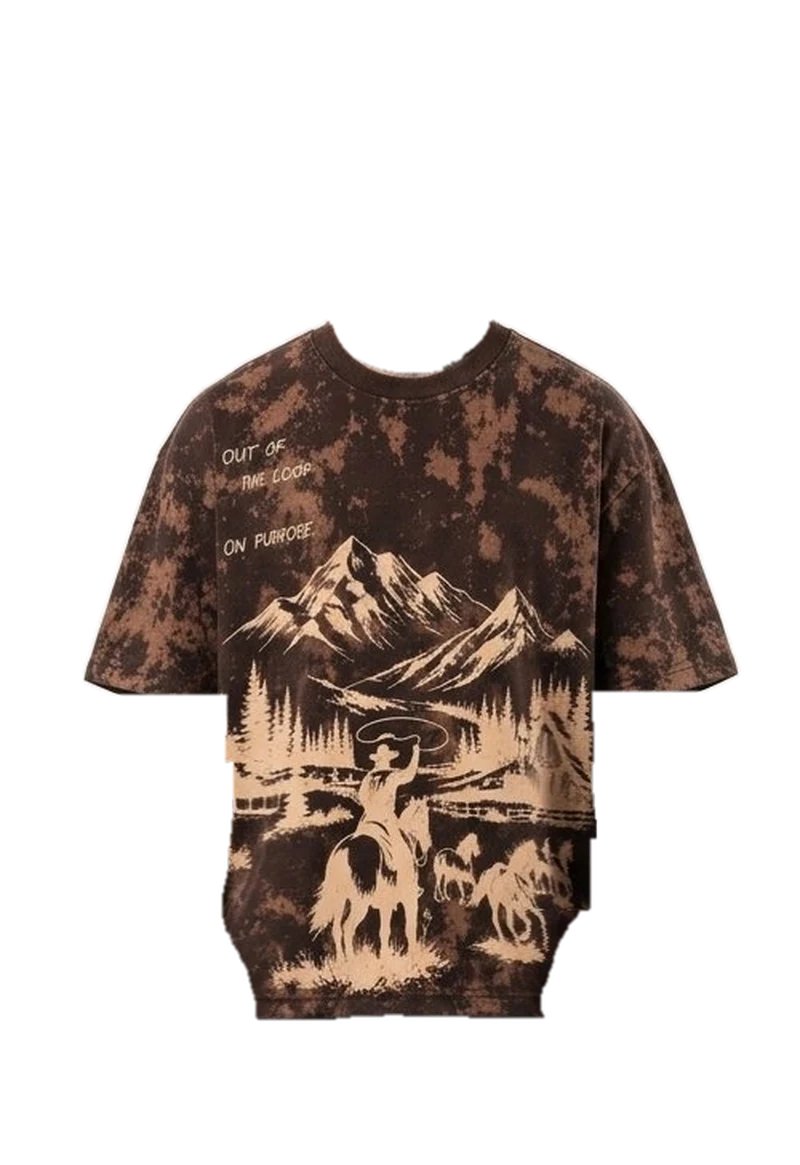
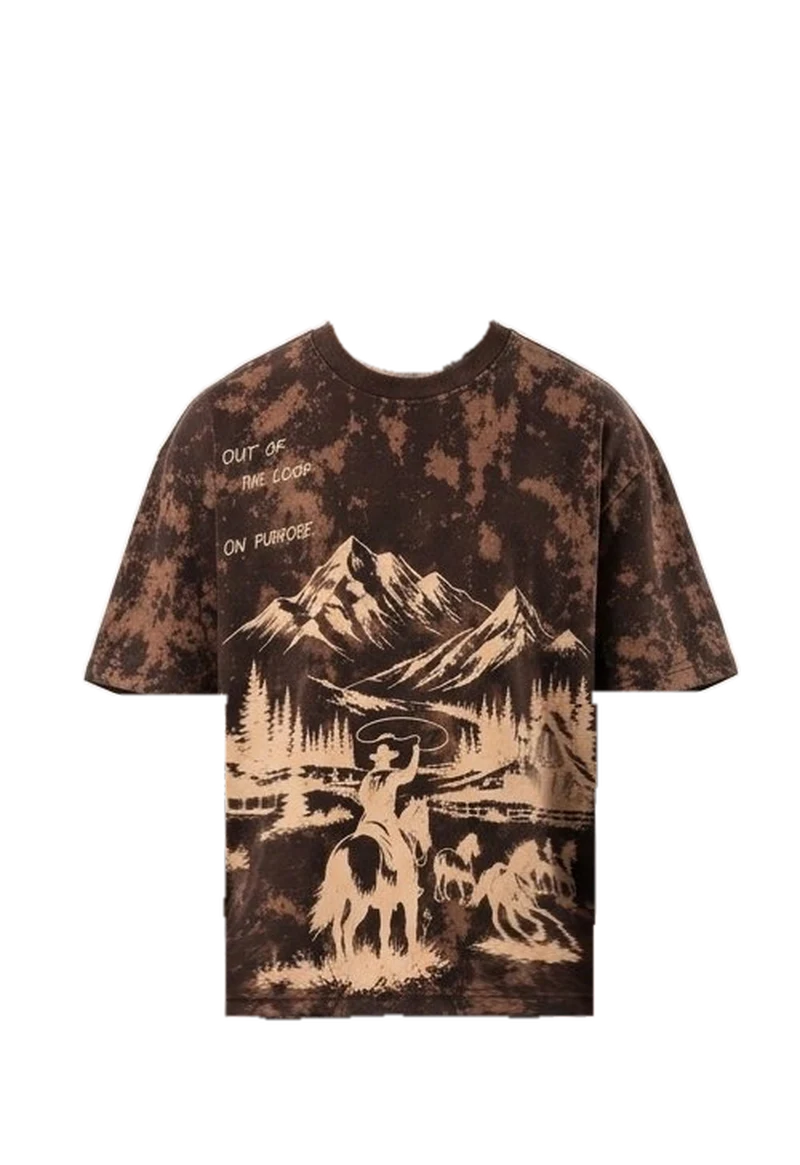
Make each piece a whole shape, with his hands on a front layer
Pieces used to be cut around the model's hands and forearms, which left
bites in their bottom corners and sides when they sat off the model.
Each piece is now completed to a straight side edge down to the hem,
and his forearms and hands are a separate front image drawn over the
pieces. A piece looks whole at the side and still sits behind his
hands when worn. Shopify: adds tryon-front.webp and an optional
front-layer image setting.

Changed region(s): [[0.5938, 0.5871, 0.75, 0.8961], [0.25, 0.5871, 0.4062, 0.8961]]

diff --git a/index.html b/index.html
@@ -10,7 +10,7 @@
   <link href="https://fonts.googleapis.com/css2?family=Boogaloo&display=swap" rel="stylesheet">
 
   <!-- Animation CSS -->
-  <link rel="stylesheet" href="jacket-carousel/jacket-carousel.css?v=3">
+  <link rel="stylesheet" href="jacket-carousel/jacket-carousel.css?v=4">
 
   <style>
     /* Demo-page only — your real site already has its own styles */
@@ -59,25 +59,29 @@
       </div>
 
       <div class="jc__model" role="img" aria-label="Model wearing the selected piece">
-        <img class="jc__body" src="jacket-carousel/assets/body.webp?v=2" alt="">
+        <img class="jc__body" src="jacket-carousel/assets/body.webp?v=3" alt="">
       </div>
 
       <div class="jc__carousel">
         <div class="jc__item">
-          <img class="jc__worn" src="jacket-carousel/assets/worn1.webp?v=4" alt="Piece 01">
+          <img class="jc__worn" src="jacket-carousel/assets/worn1.webp?v=5" alt="Piece 01">
         </div>
         <div class="jc__item">
-          <img class="jc__worn" src="jacket-carousel/assets/worn2.webp?v=4" alt="Piece 02">
+          <img class="jc__worn" src="jacket-carousel/assets/worn2.webp?v=5" alt="Piece 02">
         </div>
         <div class="jc__item">
-          <img class="jc__worn" src="jacket-carousel/assets/worn3.webp?v=4" alt="Piece 03">
+          <img class="jc__worn" src="jacket-carousel/assets/worn3.webp?v=5" alt="Piece 03">
         </div>
         <div class="jc__item">
-          <img class="jc__worn" src="jacket-carousel/assets/worn4.webp?v=4" alt="Piece 04">
+          <img class="jc__worn" src="jacket-carousel/assets/worn4.webp?v=5" alt="Piece 04">
         </div>
         <div class="jc__item">
-          <img class="jc__worn" src="jacket-carousel/assets/worn5.webp?v=4" alt="Piece 05">
+          <img class="jc__worn" src="jacket-carousel/assets/worn5.webp?v=5" alt="Piece 05">
         </div>
+      </div>
+
+      <div class="jc__front">
+        <img src="jacket-carousel/assets/front.webp" alt="">
       </div>
 
       <div class="jc__label">Piece 01</div>

diff --git a/shopify/assets/two-hiigh-tryon.css b/shopify/assets/two-hiigh-tryon.css
@@ -21,6 +21,7 @@
 /* The images carry width/height attributes (for Shopify); keep their natural
    proportions and let max-width/max-height do the sizing */
 .jc__body,
+.jc__front img,
 .jc__item img { width: auto; height: auto; }
 
 /* "Same as the theme" font setting: take the font from the theme instead of Boogaloo */
@@ -104,6 +105,30 @@
 
 .jc__body:first-child { opacity: 1; }
 
+/* Front layer: his forearms and hands once more, drawn OVER the pieces. A piece can
+   then be a complete shape (whole at the side) and still sit behind his hands when
+   he wears it. Same box as the model, so it lines up exactly. */
+.jc__front {
+  position: absolute;
+  left: 50%;
+  top: 50%;
+  transform: translate(-50%, -50%);
+  width: min(45vh, 560px);
+  height: 88vh;
+  z-index: 15;
+  pointer-events: none;
+}
+
+.jc__front img {
+  position: absolute;
+  inset: 0;
+  margin: auto;
+  max-width: 100%;
+  max-height: 100%;
+  object-fit: contain;
+  display: block;
+}
+
 /* Carousel: the pieces. Each is one image on the same canvas as the body: the
    piece cut out exactly as he wears it, front only. It looks the same waiting
    at the side as it does on him. */
@@ -177,7 +202,7 @@
   .jc__copy { max-width: 200px; }
   .jc__title { font-size: 26px; }
   .jc__text { font-size: 10px; }
-  .jc__model, .jc__item { width: min(55vh, 400px); height: 82vh; }
+  .jc__model, .jc__front, .jc__item { width: min(55vh, 400px); height: 82vh; }
   .jc__label { bottom: 20px; font-size: 9px; }
   .jc__counter { bottom: 20px; font-size: 10px; }
   .jc__counter-line { width: 40px; }
@@ -194,5 +219,5 @@
   .jc__title { font-size: 30px; }
   .jc__title br { display: none; }
   .jc__text { font-size: 12px; margin-top: 8px; }
-  .jc__model, .jc__item { width: min(86vw, 46vh); height: 64vh; top: 60%; }
+  .jc__model, .jc__front, .jc__item { width: min(86vw, 46vh); height: 64vh; top: 60%; }
 }

diff --git a/jacket-carousel/section.html b/jacket-carousel/section.html
@@ -12,25 +12,29 @@
     </div>
 
     <div class="jc__model" role="img" aria-label="Model wearing the selected piece">
-      <img class="jc__body" src="jacket-carousel/assets/body.webp?v=2" alt="">
+      <img class="jc__body" src="jacket-carousel/assets/body.webp?v=3" alt="">
     </div>
 
     <div class="jc__carousel">
       <div class="jc__item">
-        <img class="jc__worn" src="jacket-carousel/assets/worn1.webp?v=4" alt="Piece 01">
+        <img class="jc__worn" src="jacket-carousel/assets/worn1.webp?v=5" alt="Piece 01">
       </div>
       <div class="jc__item">
-        <img class="jc__worn" src="jacket-carousel/assets/worn2.webp?v=4" alt="Piece 02">
+        <img class="jc__worn" src="jacket-carousel/assets/worn2.webp?v=5" alt="Piece 02">
       </div>
       <div class="jc__item">
-        <img class="jc__worn" src="jacket-carousel/assets/worn3.webp?v=4" alt="Piece 03">
+        <img class="jc__worn" src="jacket-carousel/assets/worn3.webp?v=5" alt="Piece 03">
       </div>
       <div class="jc__item">
-        <img class="jc__worn" src="jacket-carousel/assets/worn4.webp?v=4" alt="Piece 04">
+        <img class="jc__worn" src="jacket-carousel/assets/worn4.webp?v=5" alt="Piece 04">
       </div>
       <div class="jc__item">
-        <img class="jc__worn" src="jacket-carousel/assets/worn5.webp?v=4" alt="Piece 05">
+        <img class="jc__worn" src="jacket-carousel/assets/worn5.webp?v=5" alt="Piece 05">
       </div>
+    </div>
+
+    <div class="jc__front">
+      <img src="jacket-carousel/assets/front.webp" alt="">
     </div>
 
     <div class="jc__label">Piece 01</div>

diff --git a/jacket-carousel/jacket-carousel.css b/jacket-carousel/jacket-carousel.css
@@ -91,6 +91,30 @@
 
 .jc__body:first-child { opacity: 1; }
 
+/* Front layer: his forearms and hands once more, drawn OVER the pieces. A piece can
+   then be a complete shape (whole at the side) and still sit behind his hands when
+   he wears it. Same box as the model, so it lines up exactly. */
+.jc__front {
+  position: absolute;
+  left: 50%;
+  top: 50%;
+  transform: translate(-50%, -50%);
+  width: min(45vh, 560px);
+  height: 88vh;
+  z-index: 15;
+  pointer-events: none;
+}
+
+.jc__front img {
+  position: absolute;
+  inset: 0;
+  margin: auto;
+  max-width: 100%;
+  max-height: 100%;
+  object-fit: contain;
+  display: block;
+}
+
 /* Carousel: the pieces. Each is one image on the same canvas as the body: the
    piece cut out exactly as he wears it, front only. It looks the same waiting
    at the side as it does on him. */
@@ -164,7 +188,7 @@
   .jc__copy { max-width: 200px; }
   .jc__copy h1 { font-size: 26px; }
   .jc__copy p { font-size: 10px; }
-  .jc__model, .jc__item { width: min(55vh, 400px); height: 82vh; }
+  .jc__model, .jc__front, .jc__item { width: min(55vh, 400px); height: 82vh; }
   .jc__label { bottom: 20px; font-size: 9px; }
   .jc__counter { bottom: 20px; font-size: 10px; }
   .jc__counter-line { width: 40px; }
@@ -181,5 +205,5 @@
   .jc__copy h1 { font-size: 30px; }
   .jc__copy h1 br { display: none; }
   .jc__copy p { font-size: 12px; margin-top: 8px; }
-  .jc__model, .jc__item { width: min(86vw, 46vh); height: 64vh; top: 60%; }
+  .jc__model, .jc__front, .jc__item { width: min(86vw, 46vh); height: 64vh; top: 60%; }
 }

diff --git a/shopify/README.md b/shopify/README.md
@@ -11,13 +11,14 @@ assets/
   two-hiigh-tryon.css           styles
   two-hiigh-tryon.js            scroll logic
   tryon-body.webp               built-in image: the model without a piece
+  tryon-front.webp              built-in image: his forearms and hands, drawn over the pieces
   tryon-worn1..5.webp           built-in images: each piece as worn
 ```
 
 ## Install
 
 1. Copy `sections/two-hiigh-tryon.liquid` into the theme's `sections/` folder.
-2. Copy everything in `assets/` into the theme's `assets/` folder (8 files). The file names must stay as they are.
+2. Copy everything in `assets/` into the theme's `assets/` folder (9 files). The file names must stay as they are.
 3. In the theme editor, open the template that should show it, choose **Add section → TWO HIIGH try-on**, and save.
 
 With Shopify CLI, from the theme folder:
@@ -40,6 +41,7 @@ The section adds itself with its 5 pieces and built-in images, so it works strai
 | Sticky header height (desktop / mobile) | Space left at the top for a sticky header. Set both to 0 if the header is not sticky |
 | Scroll distance per piece | How much scrolling each piece takes. Higher feels slower |
 | Model without a piece | Optional upload that replaces the built-in model image |
+| Model's forearms and hands | Optional, with a replacement model: the front layer drawn over the pieces. The built-in one is used only with the built-in model |
 | Font | "Same as the theme" (default) or "Boogaloo (Google Fonts)" |
 | Background, Text | Colours |
 

diff --git a/README.md b/README.md
@@ -13,7 +13,7 @@ jacket-carousel/
   jacket-carousel.css
   jacket-carousel.js
   section.html             ← HTML to paste into your page
-  assets/  body.webp (the model without a piece), worn1–5.webp (each piece as worn, front only)
+  assets/  body.webp (the model without a piece), front.webp (his forearms and hands, drawn over the pieces), worn1–5.webp (each piece as worn, front only)
 index.html                 ← demo page with the carousel and the site nav
 ```
 
@@ -62,7 +62,8 @@ When you later replace these files with a newer version, replace the HTML, CSS a
 All images share one 800 × 1165 canvas so they line up:
 
 - `body.webp`: the model without a piece (head, arms, plain vest, jeans), transparent background. One image, used for every piece.
-- `wornN.webp`: only piece N, cut out exactly as he wears it in the photo
+- `front.webp`: only his forearms and hands, cut from `body.webp`. It is drawn over the pieces, so a piece can be a whole shape and still sit behind his hands.
+- `wornN.webp`: only piece N, cut out exactly as he wears it in the photo, completed where his hands were in front
 
 `wornN` laid over `body.webp` must look like him wearing piece N. Because the body never changes, his arms and hands stay the same while pieces slide on and off. To add or remove a piece, add or remove its `<div class="jc__item">` in the HTML, update the `05` in `.jc__counter-total`, and adjust `--jc-length` (about 100vh per piece, plus 100vh).
 
